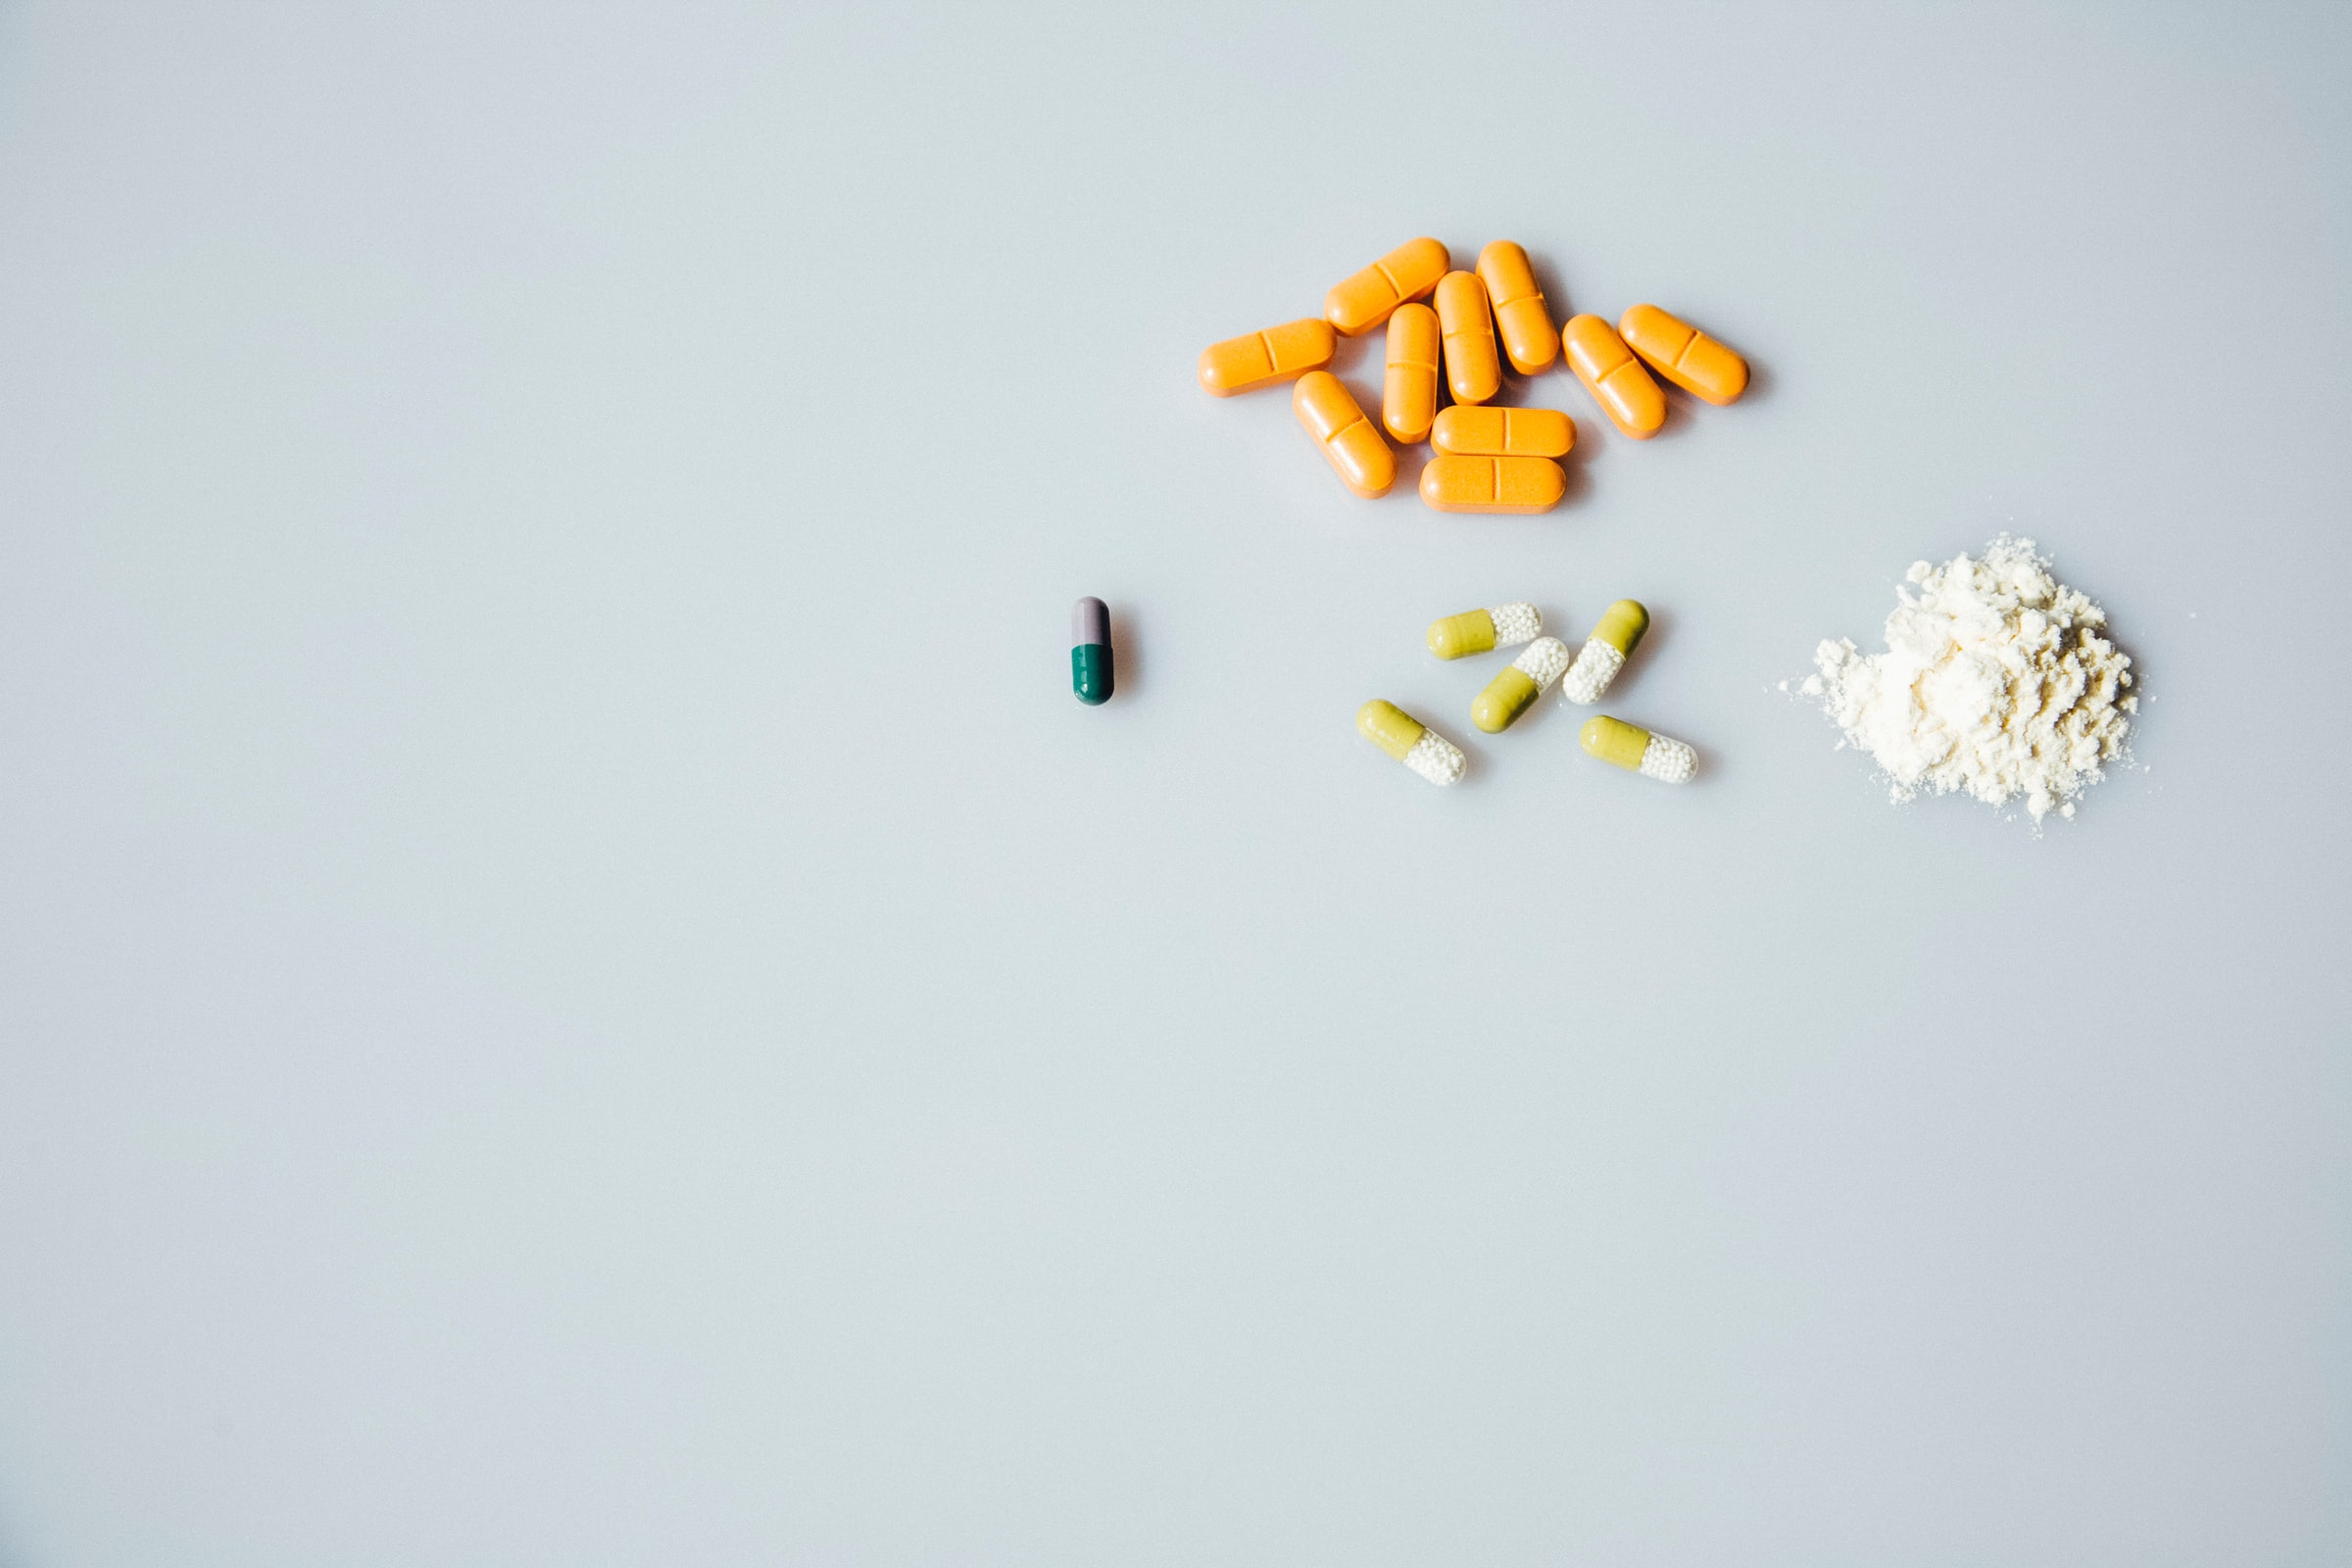
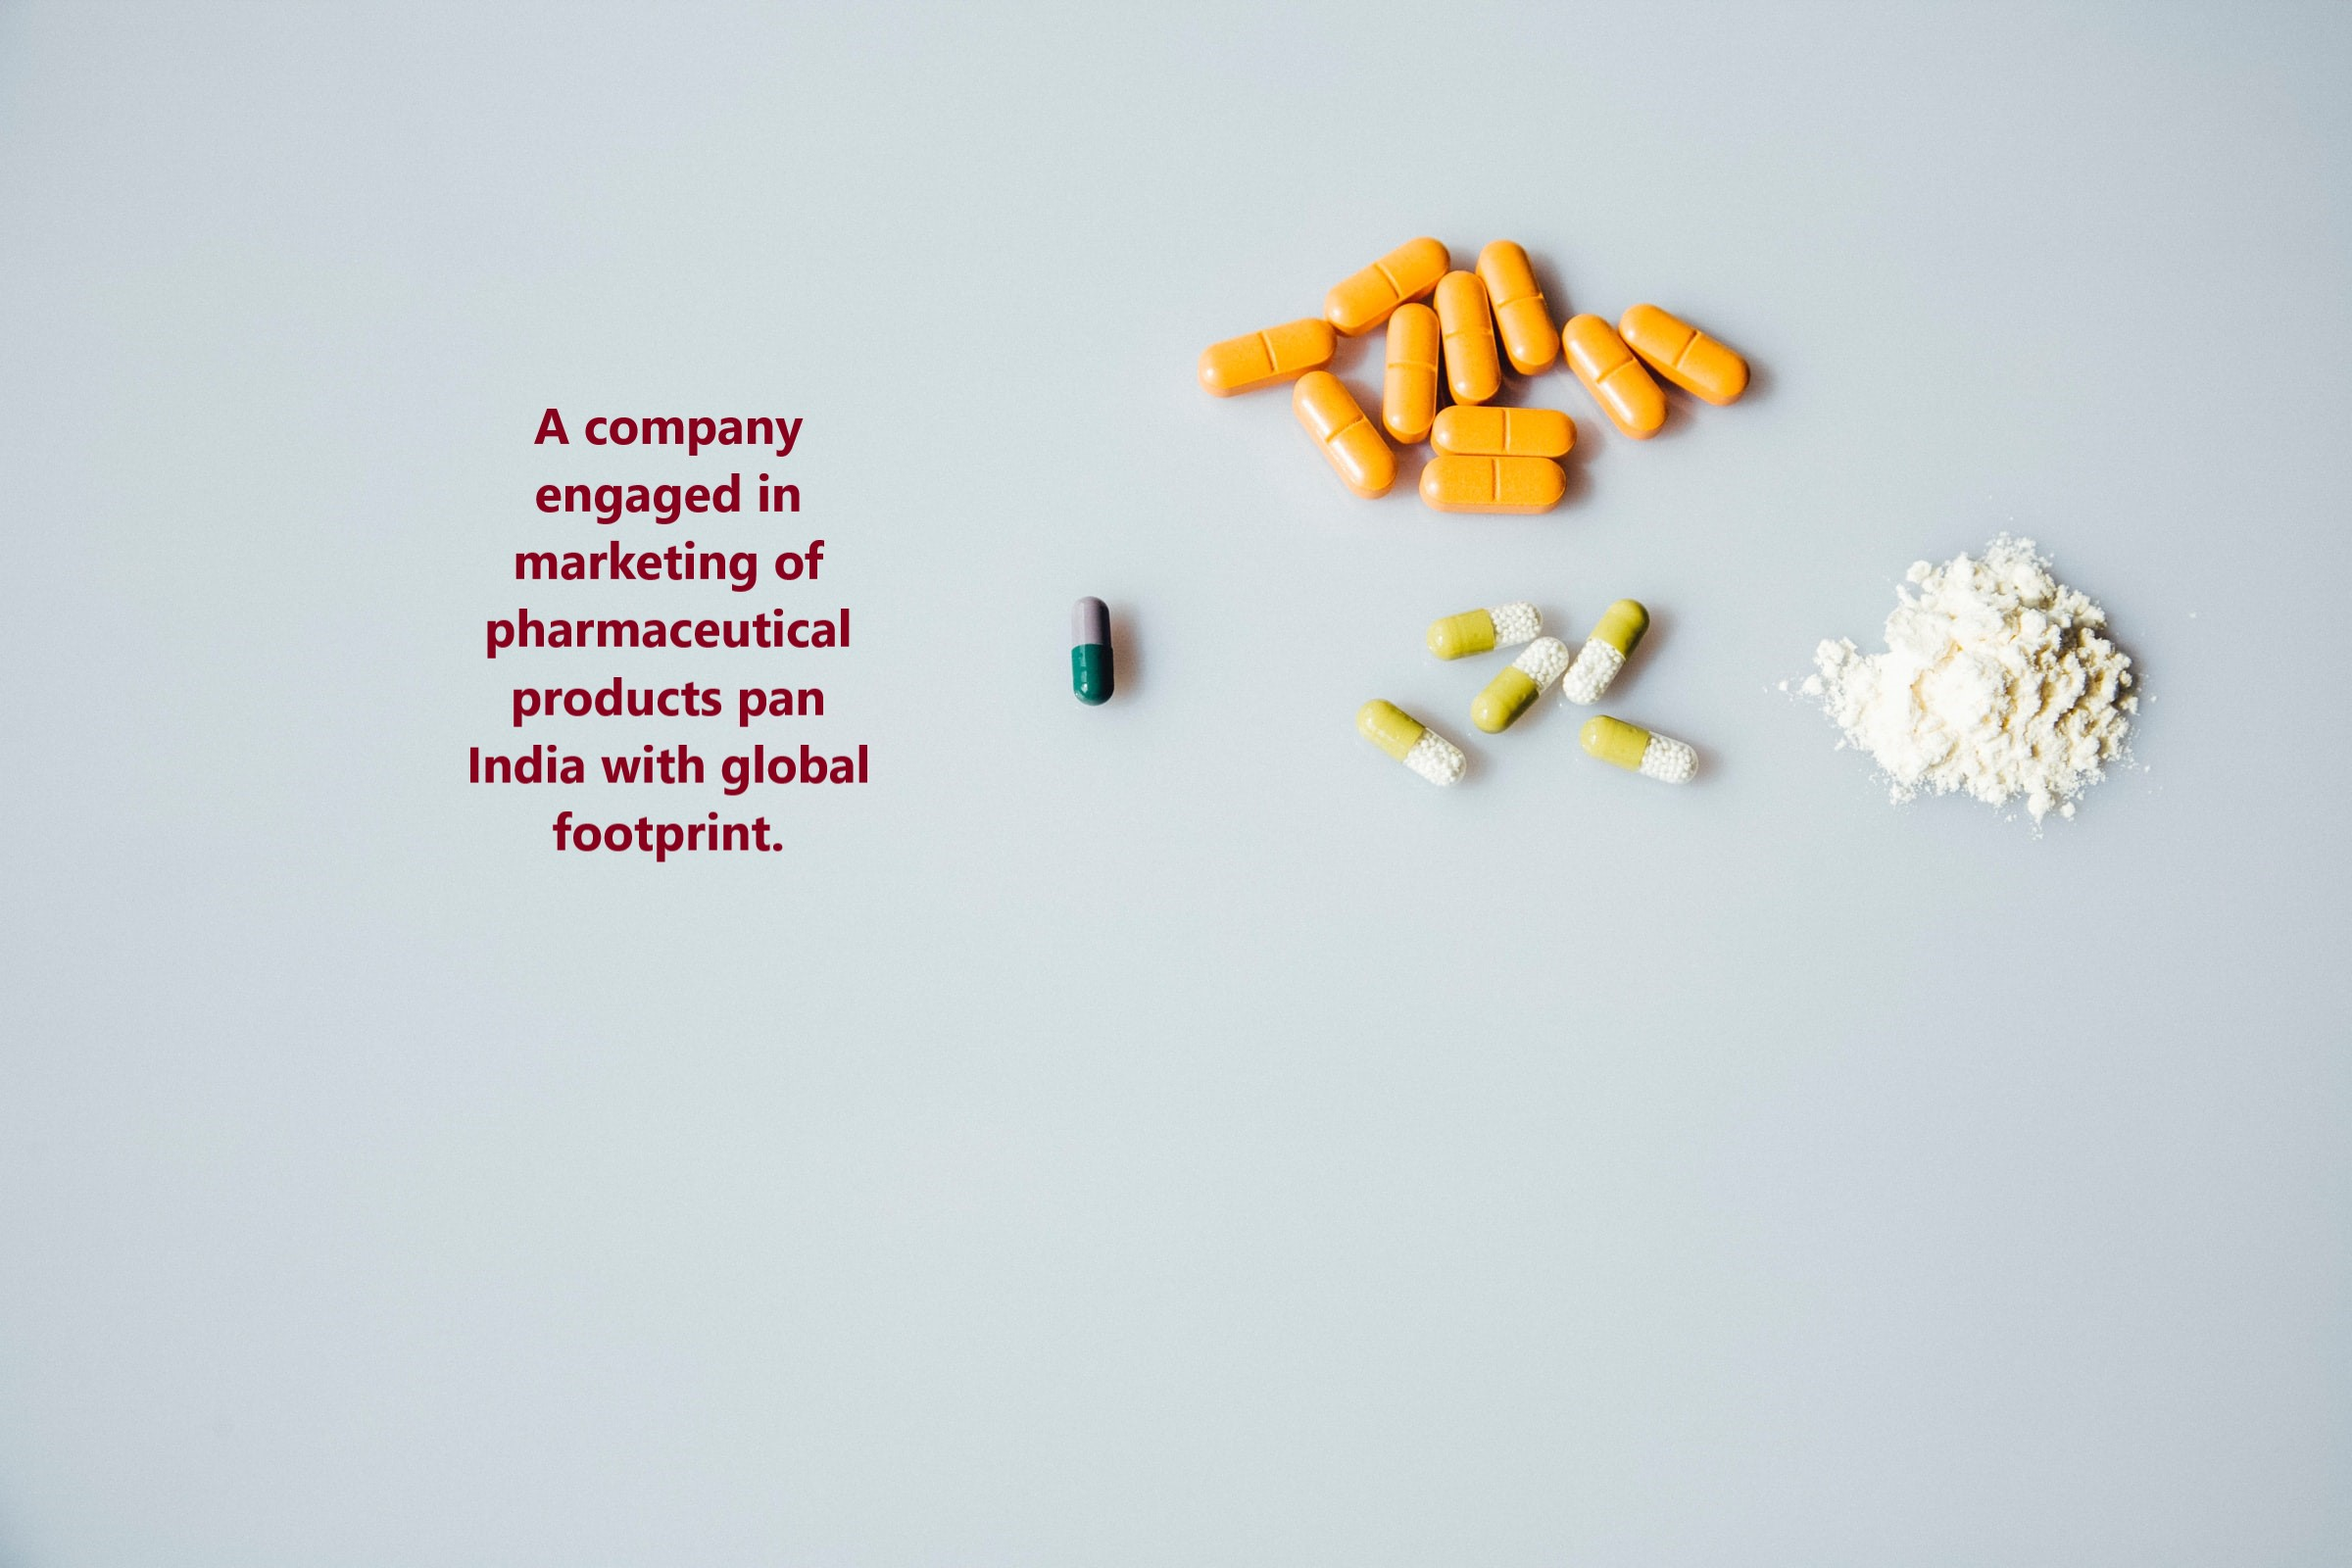
Design changes

Changed region(s): [[0.1875, 0.25, 0.375, 0.5625]]

diff --git a/pharmasite/templates/home.html b/pharmasite/templates/home.html
@@ -125,12 +125,12 @@
                     </ol>
 
                     <div class="carousel-inner">
-                        <div class="carousel-item bg_cover active" style="background-image: url({% static 'pharmasite/images/slider-4.jpg' %})">
+                        <div class="carousel-item bg_cover active" style="background-image: url({% static 'pharmasite/images/Indicon_Innovatives.jpg' %})">
                             <div class="carousel-caption">
                                 <div class="container">
                                     <div class="row justify-content-center">
                                         <div class="col-xl-6 col-lg-7 col-sm-10">
-                                            <h2 class="header">INDICON INNOVATIVES</h2>
+                                            <h2 class="header"></h2>
                                             <!-- <ul class="carousel-btn rounded-buttons">
                                                 <li><a class="main-btn rounded-three" href="#">GET STARTED</a></li>
                                                 <li><a class="main-btn rounded-one" href="#">DOWNLOAD</a></li>
@@ -141,12 +141,12 @@
                             </div> <!-- carousel caption -->
                         </div> <!-- carousel-item -->
 
-                        <div class="carousel-item bg_cover" style="background-image: url({% static 'pharmasite/images/test_image_3.jpg' %}">
+                        <div class="carousel-item bg_cover" style="background-image: url({% static 'pharmasite/images/test_image_1_edited.jpg' %}">
                             <div class="carousel-caption">
                                 <div class="container">
                                     <div class="row justify-content-center">
                                         <div class="col-xl-6 col-lg-7 col-sm-10">
-                                            <h2 class="carousel-title"><br></br>A company engaged in marketing of pharmaceutical products pan India with global footprint.</h2>
+                                            <h2 class="carousel-title"></h2>
                                             <!-- <ul class="carousel-btn rounded-buttons">
                                                 <li><a class="main-btn rounded-three" href="#">GET STARTED</a></li>
                                                 <li><a class="main-btn rounded-one" href="#">DOWNLOAD</a></li>
@@ -157,13 +157,13 @@
                             </div> <!-- carousel caption -->
                         </div> <!-- carousel-item -->
 
-                        <div class="carousel-item bg_cover" style="background-image: url({% static 'pharmasite/images/slider-10.jpg' %})">
+                        <div class="carousel-item bg_cover" style="background-image: url({% static 'pharmasite/images/medicine.jpg' %})">
                             <div class="carousel-caption">
                                 <div class="container">
                                     <div class="row justify-content-center">
                                         <div class="col-xl-6 col-lg-7 col-sm-10">
                                             <h2 class="slider-custom">
-                                            Quality, Cost effective and Availibilty are some of standards we have set for ourselves</h2>
+                                            </h2>
                                             <!-- <ul class="carousel-btn rounded-buttons">
                                                 <li><a class="main-btn rounded-three" href="#">GET STARTED</a></li>
                                                 <li><a class="main-btn rounded-one" href="#">DOWNLOAD</a></li>
@@ -444,52 +444,52 @@
 <!--====== CLIENT LOGO PART START ======-->
     <!--Need to use for products cataloge -->
 
-    <!--<section id="client" class="client-logo-area">
+    <section id="client" class="client-logo-area">
         <div class="container">
             <div class="row client-active">
                 <div class="col-lg-3">
                     <div class="single-client text-center">
-                        <img src="{% static 'pharmasite/images/client_logo_01.png' %}" alt="Logo">
-                    </div> --> <!-- single client -->
-                 <!--</div>
+                        <img src="{% static 'pharmasite/images/IMGWA0002.jpg' %}" alt="Logo">
+                    </div> <!-- single client -->
+                </div>
                 <div class="col-lg-3">
                     <div class="single-client text-center">
-                        <img src="{% static 'pharmasite/images/client_logo_02.png' %}" alt="Logo">
-                    </div> --><!-- single client -->
-                 <!--</div>
+                        <img src="{% static 'pharmasite/images/IMGWA0003.jpg' %}" alt="Logo">
+                    </div><!-- single client -->
+                </div>
                 <div class="col-lg-3">
                     <div class="single-client text-center">
-                        <img src="{% static 'pharmasite/images/client_logo_03.png' %}" alt="Logo">
-                    </div> --><!-- single client --> 
-                <!--</div>
+                        <img src="{% static 'pharmasite/images/IMGWA0004.jpg' %}" alt="Logo">
+                    </div><!-- single client --> 
+                </div>
                  <div class="col-lg-3">
                     <div class="single-client text-center">
-                        <img src="{% static 'pharmasite/images/client_logo_04.png' %}" alt="Logo">
-                    </div> --><!-- single client-->
-                <!--</div>
+                        <img src="{% static 'pharmasite/images/IMGWA0005.jpg' %}" alt="Logo">
+                    </div><!-- single client-->
+                </div>
                 <div class="col-lg-3">
                     <div class="single-client text-center">
-                        <img src="{% static 'pharmasite/images/client_logo_05.png' %}" alt="Logo">
-                    </div> --><!-- single client -->
-                <!--</div>
+                        <img src="{% static 'pharmasite/images/IMGWA0006.jpg' %}" alt="Logo">
+                    </div><!-- single client -->
+                </div>
                 <div class="col-lg-3">
                     <div class="single-client text-center">
-                        <img src="{% static 'pharmasite/images/client_logo_06.png' %}" alt="Logo">
-                    </div> --><!-- single client -->
-                <!--</div>
+                        <img src="{% static 'pharmasite/images/IMGWA0007.jpg' %}" alt="Logo">
+                    </div><!-- single client -->
+                </div>
                 <div class="col-lg-3">
                     <div class="single-client text-center">
-                        <img src="{% static 'pharmasite/images/client_logo_07.png' %}" alt="Logo">
-                    </div> --><!-- single client -->
-                <!--</div>
+                        <img src="{% static 'pharmasite/images/IMGWA0008.jpg' %}" alt="Logo">
+                    </div><!-- single client -->
+                </div>
                 <div class="col-lg-3">
                     <div class="single-client text-center">
-                        <img src="{% static 'pharmasite/images/client_logo_08.png' %}" alt="Logo">
-                    </div> --><!-- single client -->
-                <!--</div>
-            </div> --><!--row -->
-        <!--</div> --><!--container -->
-    <!--</section>  -->
+                        <img src="{% static 'pharmasite/images/IMGWA0009.jpg' %}" alt="Logo">
+                    </div><!-- single client -->
+                </div>
+            </div><!--row -->
+        </div><!--container -->
+    </section>
 
     <!--====== CLIENT LOGO PART ENDS ======-->
 

diff --git a/static/pharmasite/css/style.css b/static/pharmasite/css/style.css
@@ -1123,25 +1123,26 @@ p {
           /* padding-bottom: 100px; */
           font-weight: 400;
           font-family: initial;
-          color: #06070C;
+          color: #620A27;
           padding-top: 100px;
           padding-left: 550px; /* Slider 1 font color */
           line-height: 45px; }
           .slider-custom{
-          font-size: 40px;
+          /*font-size: 40px;
           font-weight: 600;
           font-family: initial; /* Slider 3 custom area */
-          color: #000;
+          color: #fff;
           line-height: 60px;
-          padding-bottom: 100px;
-          padding-left: 70px; }
+          /*padding-bottom: 100px;
+          padding-left: 70px; */}
         .slider-area .bd-example .carousel .carousel-inner .carousel-item .carousel-caption .carousel-title {
           font-size: 44px;
-          font-weight: 700;
+          font-weight: 400;
           font-family: initial; /* slider 2 font area */
-          padding-bottom: 150px;
+          padding-bottom: 180px;
+          padding-right: 200px;
           color: #000;
-          line-height: 65px; }
+          line-height: 55px; }
           @media (max-width: 767px) {
             .slider-area .bd-example .carousel .carousel-inner .carousel-item .carousel-caption .carousel-title {
               font-size: 24px;
@@ -2041,7 +2042,7 @@ p {
 /*===== Client Logo Two =====*/
 .client-logo-area {
   padding-top: 80px;
-  padding-bottom: 80px; }
+  padding-bottom: 60px; }
 
 .client-logo-2 {
   background-color: #f4f6f7; }
